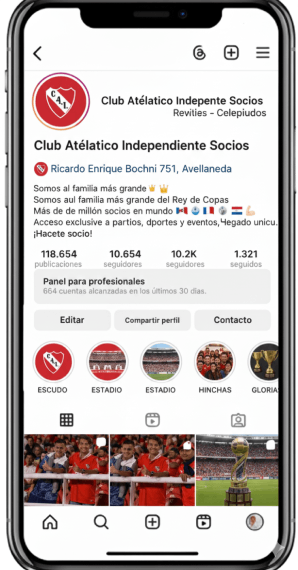
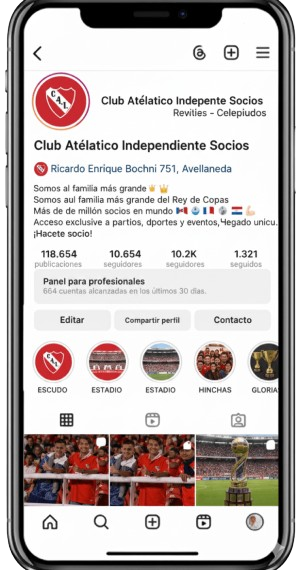
Foto sin fondo

diff --git a/index.php b/index.php
@@ -215,7 +215,7 @@ $userName = $isLoggedIn ? $_SESSION['nombre'] : '';
                     </ul>
                     
                 </div>
-                <a class="item-turno" href="php/sesion.php?redirect_url=altasocio.php">¡Quiero ser socio!</a>
+                <a class="item-turno" href="sesion.php?redirect_url=altasocio.php">¡Quiero ser socio!</a>
             </div>
             <div class="servicios-item">
                 <div class="item-description">
@@ -235,7 +235,7 @@ $userName = $isLoggedIn ? $_SESSION['nombre'] : '';
                     </ul>
                 </div>
 
-                <a class="item-turno" href="php/sesion.php?redirect_url=altasocio.php">¡Quiero ser socio!</a>
+                <a class="item-turno" href="sesion.php?redirect_url=altasocio.php">¡Quiero ser socio!</a>
             </div>
             <div class="servicios-item">
                 <div class="item-description">
@@ -255,7 +255,7 @@ $userName = $isLoggedIn ? $_SESSION['nombre'] : '';
                     </ul>
                                          
                 </div>
-                <a class="item-turno" href="php/sesion.php?redirect_url=altasocio.php">¡Quiero ser socio!</a>
+                <a class="item-turno" href="sesion.php?redirect_url=altasocio.php">¡Quiero ser socio!</a>
             </div>
 
             <h2>Experiencias!</h2>
